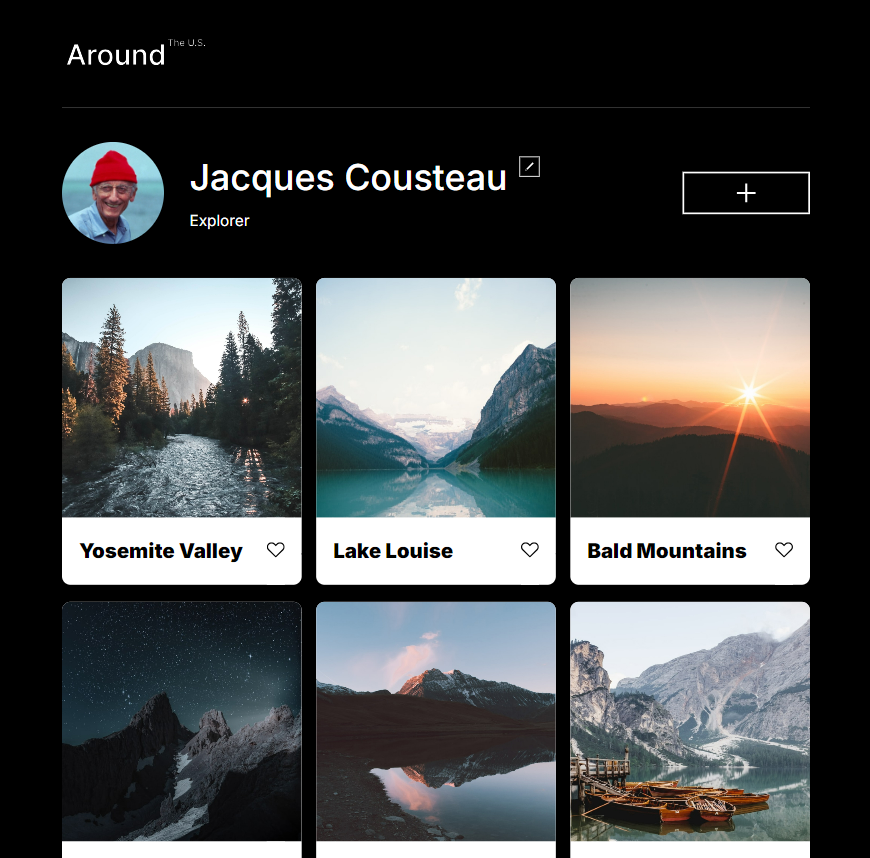
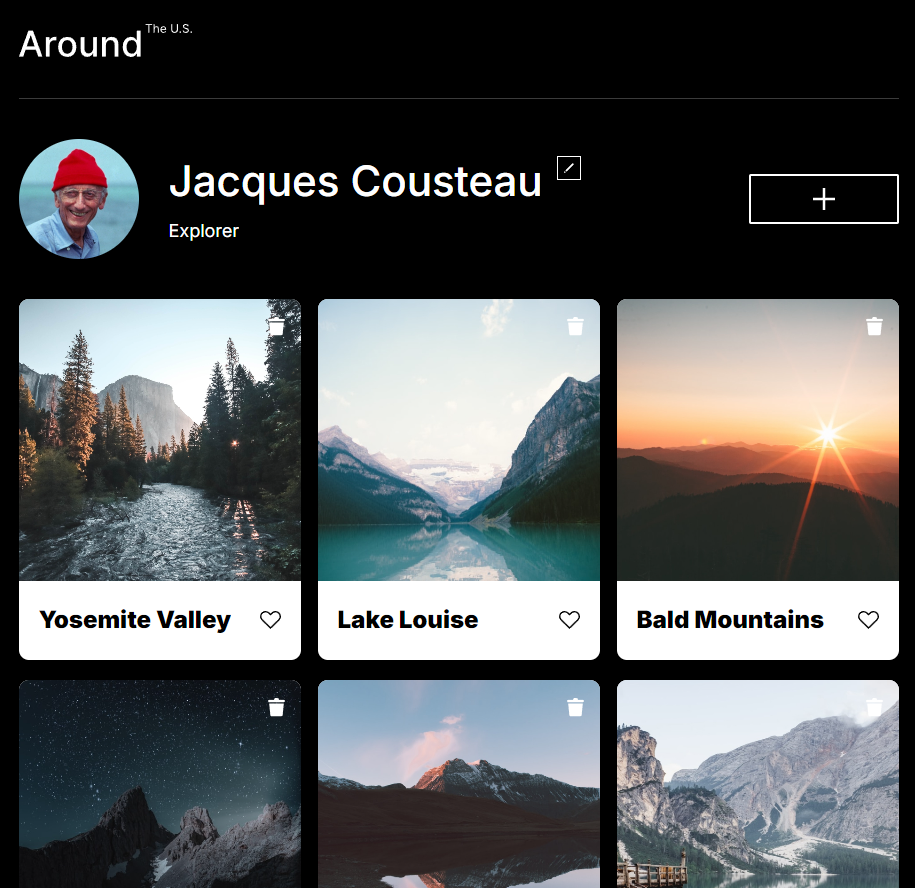
Updated README and added new screenshots

diff --git a/README.md b/README.md
@@ -14,6 +14,8 @@ This project was a challenge to create the site from the Figma design and then m
 
 The second phase of this project involved making a window to edit the user's name and title. I created this with HTML and CSS, then added Javascript functionality to allow the window to operate properly, passing the name and title values to the modal and to the main page once edited. I then removed the HTML for my cards and generated them dynamically with Javascript, using querySelector, cloneNode, and writing functions for the array as an iterative loop.
 
+The third phase of this project included adding functionality to allow the user to add new cards, delete cards, click the like buttons, and implement some optimizations in Javascript to allow the site to function more efficiently.
+
 The site is currently hosted on GitHub Pages at the following address:
 
 [Link to the project site on GitHub Pages](https://ironrule.github.io/se_project_aroundtheus/)
@@ -28,7 +30,7 @@ Below is a link to the video that I created for my site, to show the different f
 
 **Figma**
 
-- [Link to the project on Figma](https://www.figma.com/file/EO5AaNCuzzFL7X5gSY7HwQ/Sprint-4_-Around-The-U.S.-_-desktop-%2B-mobile?t=3hvVWRz9LUFsxyNn-6)
+- [Link to the project on Figma](<https://www.figma.com/file/JFPhASqvZ5pBjQV2ouUlim/Sprint-5_-Around-The-U.S.-_-desktop-%2B-mobile-(Copy)?t=3hvVWRz9LUFsxyNn-6>)
 
 After loading this design, I was able to export the necessary images for my project. This Figma design gave us a mockup of the site for small devices of 320 pixel width screens, and a regular desktop site of around 1280 pixels in width.
 
@@ -36,16 +38,24 @@ After loading this design, I was able to export the necessary images for my proj
 
 Below are links to the images of my site while viewing in DevTools to see the different sizes and how the site changes to adapt to them.
 
-[Link to the Desktop Screenshot](./readme/desktop.png)
+[Desktop Screenshot](./readme/desktop.png)
 
-    [Link to the Desktop Popup Modal](./readme/DesktopPopup.png)
+    [Desktop Profile Modal](./readme/desktopprofile.png)
 
-[Link to the Tablet Screenshot](./readme/tablet.png)
+    [Desktop New Place Added](./readme/desktopnewplace.png)
 
-[Link to the Mobile Screenshot](./readme/mobile.png)
+    [Desktop Like Button Function](./readme/desktopfavorite.png)
 
-    [Link to the Mobile Popup Modal](./readme/MobilePopup.png)
+    [Desktop Add Modal](./readme/desktopadd.png)
+
+    [Desktop Delete Function](./readme/desktopdelete.png)
+
+[Tablet Screenshot](./readme/tablet.png)
+
+[Mobile Screenshot](./readme/mobile.png)
+
+    [Mobile Profile Modal](./readme/MobilePopup.png)
 
 **Future Plans**
 
-Future plans for this site include continuing the interactive buttons, edit features, and allowing users to add more images. This will be accomplished with additional Javascript, CSS and HTML.
+Future plans for this site include coding the back-end to allow saving changes permanently, and editing features. This will be accomplished with additional Javascript, CSS and HTML.
